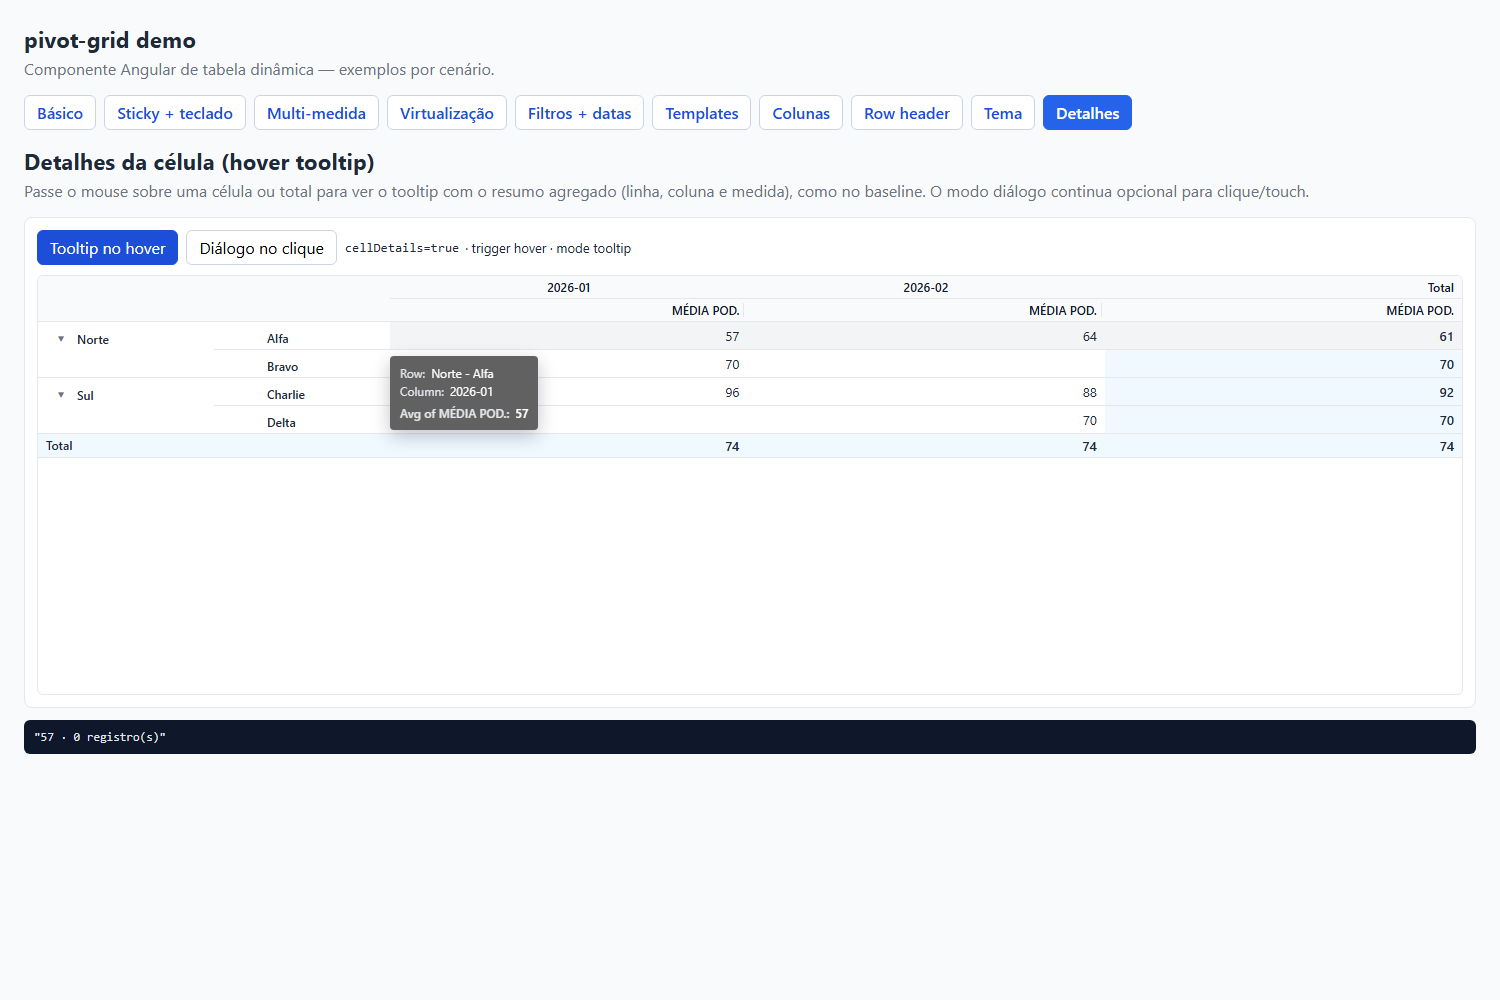
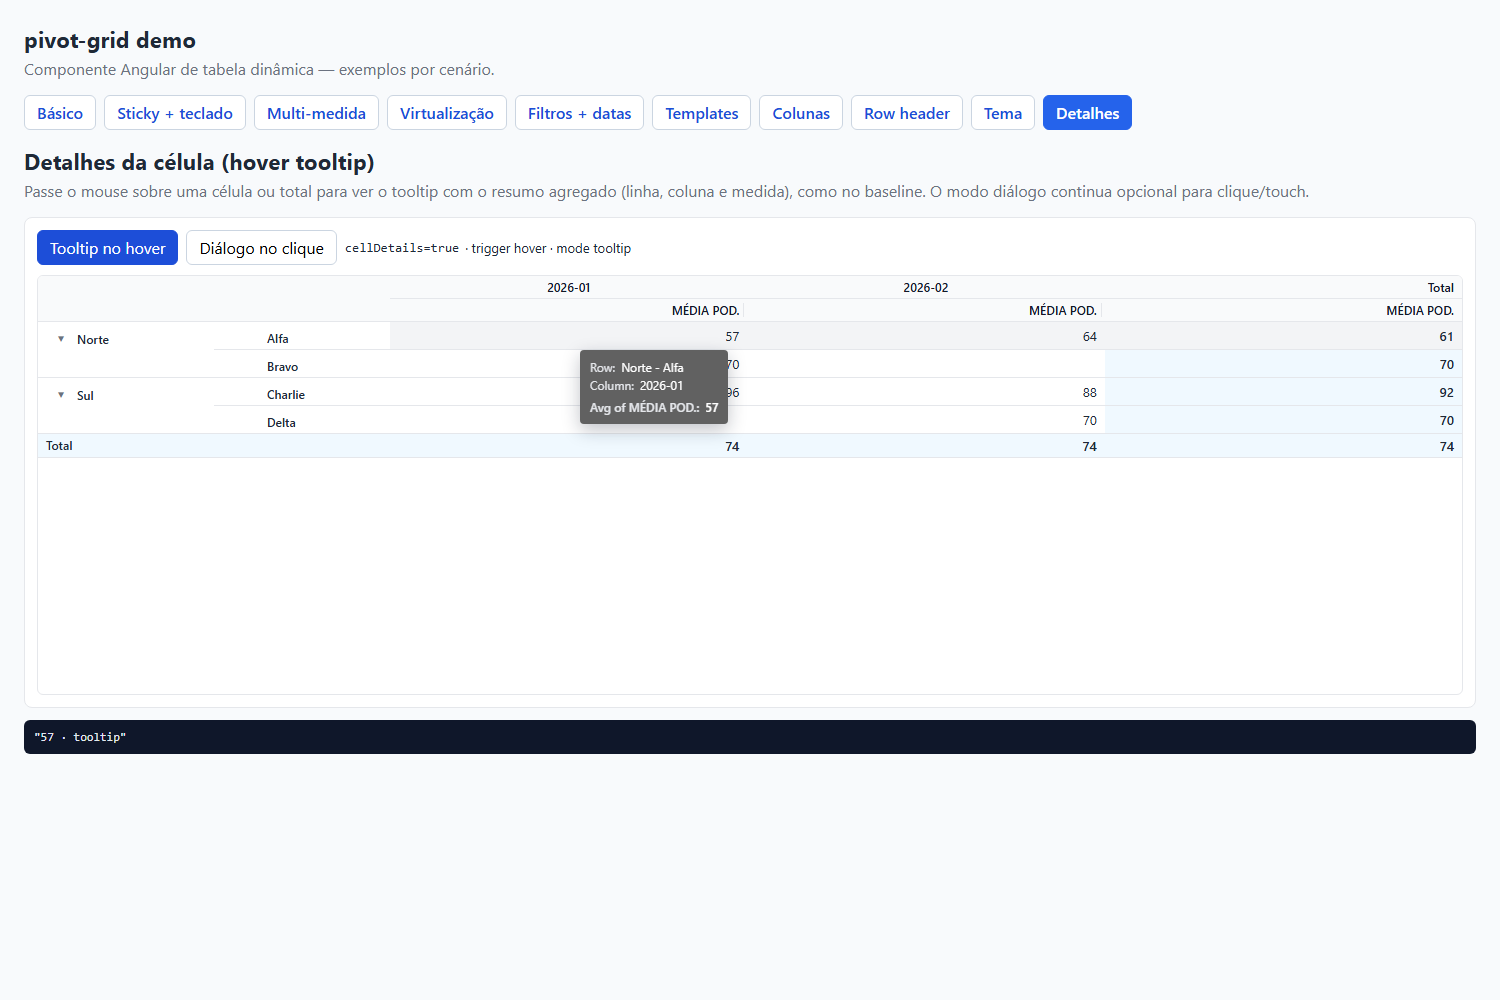
chore(release): 2.4.1
Correcao: tooltip de celula posicionado junto ao cursor (+12/+14) em vez do inicio da celula; fallback para a celula no foco por teclado. Sem mudanca de API.

Changed region(s): [[0.2453, 0.341, 0.4907, 0.465], [0.0613, 0.713, 0.092, 0.744]]

diff --git a/projects/pivot-grid/src/lib/pivot-grid.component.ts b/projects/pivot-grid/src/lib/pivot-grid.component.ts
@@ -148,6 +148,7 @@ export class PivotGridComponent implements AfterViewInit, OnDestroy {
   readonly tooltipId = `pg-tooltip-${++tooltipSequence}`;
   private tooltipTimer: ReturnType<typeof setTimeout> | null = null;
   private tooltipCell: HTMLElement | null = null;
+  private tooltipAnchor: { x: number; y: number } | null = null;
   private filtersInitialized = false;
   private readonly scrollTop = signal(0);
   private readonly viewportHeight = signal(0);
@@ -889,6 +890,7 @@ export class PivotGridComponent implements AfterViewInit, OnDestroy {
     if (!td || td === this.tooltipCell) {
       return;
     }
+    this.tooltipAnchor = { x: event.clientX, y: event.clientY };
     this.clearTooltipTimer();
     this.tooltipTimer = setTimeout(() => this.openTooltipDetails(cell, td), 150);
   }
@@ -910,9 +912,18 @@ export class PivotGridComponent implements AfterViewInit, OnDestroy {
     }
     const hit = this.cellAt(Number(td.dataset['r']), Number(td.dataset['c']));
     if (hit) {
+      this.tooltipAnchor = null;
       this.clearTooltipTimer();
       this.openTooltipDetails(hit.cell, td);
     }
+  }
+
+  onGridMouseMove(event: MouseEvent): void {
+    if (!this.tooltip()) {
+      return;
+    }
+    this.tooltipAnchor = { x: event.clientX, y: event.clientY };
+    this.positionTooltip();
   }
 
   onGridBlur(): void {
@@ -942,7 +953,7 @@ export class PivotGridComponent implements AfterViewInit, OnDestroy {
     trigger?.setAttribute('aria-describedby', this.tooltipId);
     this.tooltip.set(context);
     this.cellDetailsOpen.emit(context);
-    setTimeout(() => this.positionTooltip());
+    this.positionTooltip();
   }
 
   closeTooltip(): void {
@@ -952,6 +963,7 @@ export class PivotGridComponent implements AfterViewInit, OnDestroy {
     }
     this.tooltipCell?.removeAttribute('aria-describedby');
     this.tooltipCell = null;
+    this.tooltipAnchor = null;
     this.tooltip.set(null);
     this.cellDetailsClose.emit();
   }
@@ -974,15 +986,16 @@ export class PivotGridComponent implements AfterViewInit, OnDestroy {
   private positionTooltip(): void {
     const tooltip = this.tooltipEl()?.nativeElement;
     const source = this.tooltipCell;
-    if (!tooltip || !source || typeof window === 'undefined') {
+    if (!source || typeof window === 'undefined') {
       return;
     }
     const rect = source.getBoundingClientRect();
-    const width = tooltip.offsetWidth || 260;
-    const height = tooltip.offsetHeight || 90;
+    const width = tooltip?.offsetWidth || 260;
+    const height = tooltip?.offsetHeight || 90;
     const margin = 8;
-    let left = rect.left;
-    let top = rect.bottom + 6;
+    const anchor = this.tooltipAnchor;
+    let left = anchor ? anchor.x + 12 : rect.left;
+    let top = anchor ? anchor.y + 14 : rect.bottom + 6;
     if (left + width > window.innerWidth - margin) {
       left = window.innerWidth - width - margin;
     }
@@ -1192,6 +1205,8 @@ export class PivotGridComponent implements AfterViewInit, OnDestroy {
     this.stateChange.emit({ expanded: { ...expanded }, sort: this.config().sort });
   }
 }
+
+
 
 
 

diff --git a/projects/pivot-grid/src/lib/pivot-grid.component.spec.ts b/projects/pivot-grid/src/lib/pivot-grid.component.spec.ts
@@ -686,13 +686,15 @@ describe('PivotGridComponent', () => {
     spyOnProperty(window, 'innerWidth', 'get').and.returnValue(1000);
     spyOnProperty(window, 'innerHeight', 'get').and.returnValue(800);
 
-    cell.dispatchEvent(new MouseEvent('mouseenter'));
+    cell.dispatchEvent(new MouseEvent('mouseenter', { clientX: 300, clientY: 200 }));
     tick(150);
     fixture.detectChanges();
     tick(0);
     fixture.detectChanges();
 
     const tooltip = element.querySelector('[role="tooltip"]') as HTMLElement;
+    expect(parseFloat(tooltip.style.left)).toBeGreaterThanOrEqual(300);
+    expect(parseFloat(tooltip.style.top)).toBeGreaterThanOrEqual(200);
     expect(parseFloat(tooltip.style.left)).toBeLessThanOrEqual(992);
     expect(parseFloat(tooltip.style.top)).toBeLessThanOrEqual(792);
   }));

diff --git a/projects/pivot-grid/src/lib/pivot-grid.component.html b/projects/pivot-grid/src/lib/pivot-grid.component.html
@@ -45,6 +45,7 @@
         (keydown)="onKeydown($event)"
         (focusin)="onGridFocus($event)"
         (focusout)="onGridBlur()"
+        (mousemove)="onGridMouseMove($event)"
         [attr.aria-rowcount]="displayRowCount() + 1"
         [attr.aria-colcount]="columnCount()"
       >
@@ -572,6 +573,7 @@
     </div>
   }
 </div>
+
 
 
 

diff --git a/docs/examples/cell-details.md b/docs/examples/cell-details.md
@@ -15,7 +15,7 @@ O baseline foi inspecionado em `http://localhost/packreturn-green/`
 | Conteúdo | `Row:` caminho `" - "`, `Column:` caminho, `Avg of <medida>:` valor |
 | Registros | **não exibe** registros, somente o resumo |
 | Atraso | ~20 ms (praticamente imediato) |
-| Posição | abaixo/à direita da célula/cursor; `max-width: 350px`; largura ~160–172 px |
+| Posição | **junto ao cursor** (+12/+14); `max-width: 350px`; largura ~160–172 px |
 | Aparência | fundo cinza `#616161`, texto branco, 12–14 px |
 | Totais | mesmo formato; subtotal de coluna mostra o caminho da coluna |
 | Tree | tooltip apenas nas células de valor; o cabeçalho de linha não tem tooltip |
@@ -55,7 +55,8 @@ detailsTemplate?: TemplateRef<PivotCellDetailsContext>;
 ```
 
 - Delay do tooltip: **150 ms**; fecha ao sair, no scroll e com `Esc`.
-- Posiciona abaixo da célula e reposiciona para não sair da viewport.
+- Posiciona **junto ao cursor** (+12/+14) e reposiciona para não sair da
+  viewport; no foco por teclado usa a célula como âncora.
 - Sem backdrop e sem prender foco no tooltip.
 - `detailsTemplate` continua valendo; no modo dialog o contexto inclui
   `records` via `PivotResult.recordsForCell`. No tooltip padrão os registros não

diff --git a/README.md b/README.md
@@ -15,10 +15,10 @@ datas, templates, virtualização e exportação CSV/XLSX.
 
 | Linha | Angular | Versão atual | Situação |
 |---|---|---|---|
-| **2.x** | **21 e 22** (`>=21 <23`) | **2.3.1** (`latest`) | zoneless + SSR/hydration |
+| **2.x** | **21 e 22** (`>=21 <23`) | **2.4.1** (`latest`) | zoneless + SSR/hydration |
 | **1.x** | **18, 19 e 20** (`>=18 <21`) | **1.2.0** | manutenção; sem novas features |
 
-> **Status:** **2.4.0 estável** (`latest`) para Angular 21+, com tooltip de
+> **Status:** **2.4.1 estável** (`latest`) para Angular 21+, com tooltip de
 > célula no hover (diálogo opcional). A 1.2.0 segue publicada para Angular 18–20.
 
 ## Funcionalidades
@@ -49,7 +49,7 @@ datas, templates, virtualização e exportação CSV/XLSX.
 
 ```bash
 # Angular 21/22 (linha 2.x)
-npm install --save-exact pivot-grid@2.4.0
+npm install --save-exact pivot-grid@2.4.1
 
 # Angular 18/19/20 (linha 1.x)
 npm install --save-exact pivot-grid@1.2.0
@@ -147,6 +147,7 @@ npm run verify:package # valida o pacote antes do publish
 ## Licença
 
 MIT © Leonardo Hessel
+
 
 
 

diff --git a/docs/API.md b/docs/API.md
@@ -447,7 +447,7 @@ continua opcional.
 - detailsColumns: PivotField[] | string[] (diálogo/template)
 - detailsTemplate: TemplateRef<PivotCellDetailsContext>
 
-Hover: abre após 150 ms, ancorado à célula, reposiciona para não sair da
+Hover: abre após 150 ms, junto ao cursor (fallback à célula no foco), reposiciona para não sair da
 viewport, fecha ao sair/scroll/Esc, sem backdrop e sem prender foco.
 
 Conteúdo padrão: Row: (caminho), Column: (caminho), "<Agg> of <medida>:" e o
@@ -633,6 +633,7 @@ Superfície estável — somente o que sai de `public-api.ts`:
 
 - [docs/examples/sticky-keyboard.md](./examples/sticky-keyboard.md) — row headers fixos e teclado.
 - [docs/examples/](./examples/README.md) — índice por funcionalidade.
+
 
 
 

diff --git a/docs/MIGRATION-2.md b/docs/MIGRATION-2.md
@@ -1,6 +1,6 @@
 # Migração 1.x → 2.x (Angular 21+)
 
-> **Status:** **2.4.0 estável** (`latest`), com a 2.0.0 validada pelo consumidor
+> **Status:** **2.4.1 estável** (`latest`), com a 2.0.0 validada pelo consumidor
 > no Angular 22. A 1.2.0 permanece disponível para Angular 18–20.
 
 ## O que muda
@@ -19,10 +19,10 @@ têm a mesma API e comportamento da 1.2.0.
 ## Instalação do RC
 
 ```bash
-npm install --save-exact pivot-grid@2.4.0
+npm install --save-exact pivot-grid@2.4.1
 ```
 
-O `latest` aponta para a 2.4.0; a 1.x segue publicada e suportada para Angular 18–20.
+O `latest` aponta para a 2.4.1; a 1.x segue publicada e suportada para Angular 18–20.
 
 ## Zoneless
 

diff --git a/docs/SPECIFICATION.md b/docs/SPECIFICATION.md
@@ -418,8 +418,8 @@ sem `ngDoCheck`, sem manipulação de DOM fora do Angular.
 ### 8.26 Detalhes da célula (2.4)
 
 - Padrão: cellDetails true, cellDetailsTrigger hover, cellDetailsMode tooltip.
-- Hover abre após 150 ms, ancorado à célula, com reposicionamento para não sair
-  da viewport; fecha ao sair, no scroll e com Esc.
+- Hover abre após 150 ms, **junto ao cursor** (fallback à célula no foco), com
+  reposicionamento para não sair da viewport; fecha ao sair, no scroll e com Esc.
 - Conteúdo padrão: Row: caminho (join " - "), Column: caminho,
   "<Agg> of <medida>:" valor formatado. Não exibe registros (paridade com o
   baseline Syncfusion 20).

diff --git a/docs/INTEGRATION.md b/docs/INTEGRATION.md
@@ -4,7 +4,7 @@ Adoção do `pivot-grid` em um app Angular. Escolha a linha conforme a versão:
 
 | App | Linha | Instalação |
 |---|---|---|
-| Angular 21/22 | 2.x | `npm install --save-exact pivot-grid@2.4.0` |
+| Angular 21/22 | 2.x | `npm install --save-exact pivot-grid@2.4.1` |
 | Angular 18/19/20 | 1.x | `npm install --save-exact pivot-grid@1.2.0` |
 
 Campos de exemplo são genéricos; adapte aos nomes da sua API.

diff --git a/docs/ROADMAP.md b/docs/ROADMAP.md
@@ -4,7 +4,7 @@
 
 | Linha | Angular | Versão atual | Estado |
 |---|---|---|---|
-| **2.x** | 21, 22 | **2.4.0** (`latest`) | ativa; tooltip no hover |
+| **2.x** | 21, 22 | **2.4.1** (`latest`) | ativa; tooltip no hover |
 | **1.x** | 18, 19, 20 | **1.2.0** | congelada; manutenção |
 
 - Novas features entram **somente na 2.x**, uma funcionalidade-título por minor.

diff --git a/CHANGELOG.md b/CHANGELOG.md
@@ -6,6 +6,13 @@ e o versionamento segue [SemVer](https://semver.org/lang/pt-BR/).
 
 ## [Unreleased]
 
+## [2.4.1] - 2026-11-15
+
+### Fixed
+
+- Tooltip de célula agora aparece **junto ao cursor** (+12/+14), e não no
+  início da célula. No foco por teclado usa a célula como âncora.
+
 ## [2.4.0] - 2026-11-15
 
 ### Changed

diff --git a/docs/COMPATIBILITY.md b/docs/COMPATIBILITY.md
@@ -4,7 +4,7 @@
 
 | Linha | Angular | Versão atual | Situação |
 |---|---|---|---|
-| **2.x** | 21, 22 | **2.4.0** (`latest`) | estável; tooltip no hover |
+| **2.x** | 21, 22 | **2.4.1** (`latest`) | estável; tooltip no hover |
 | **1.x** | 18, 19, 20 | **1.2.0** | manutenção; sem novas features |
 
 `peerDependencies`:
